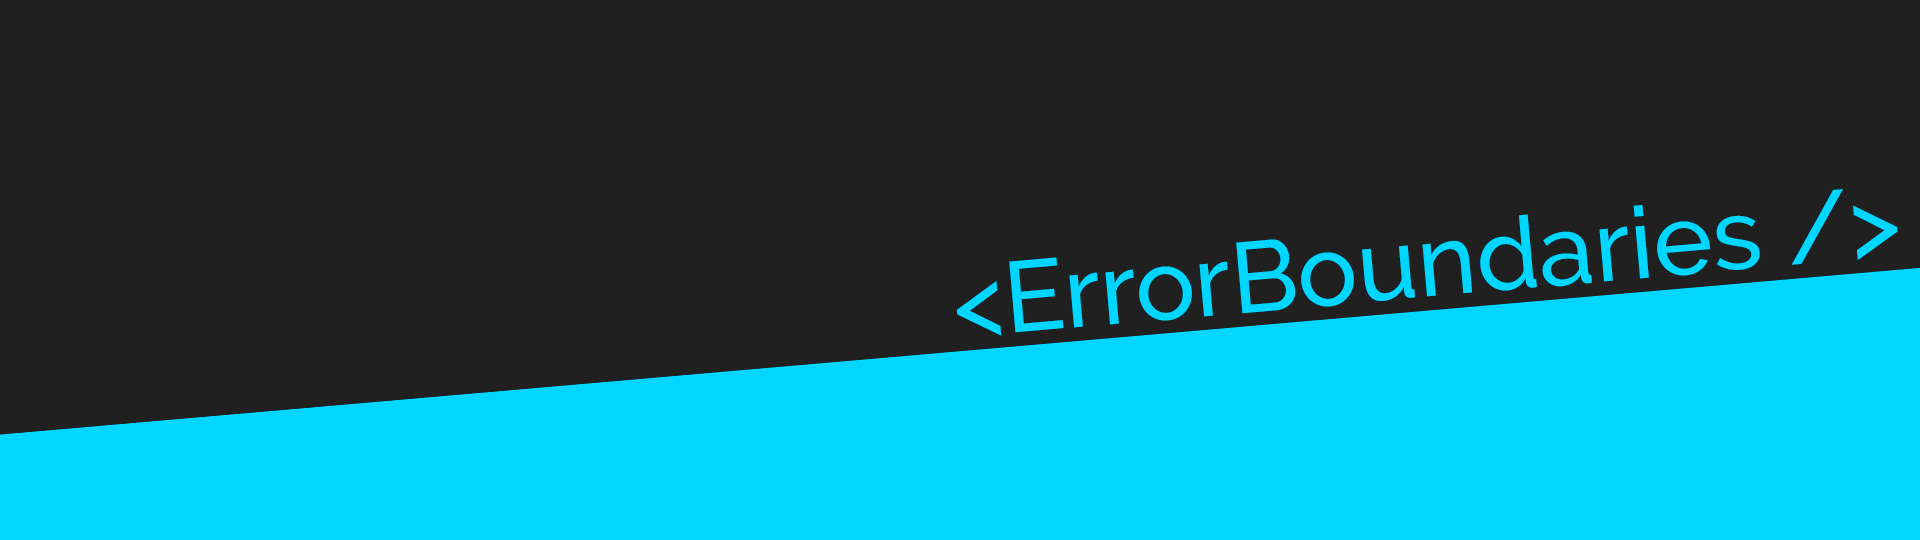
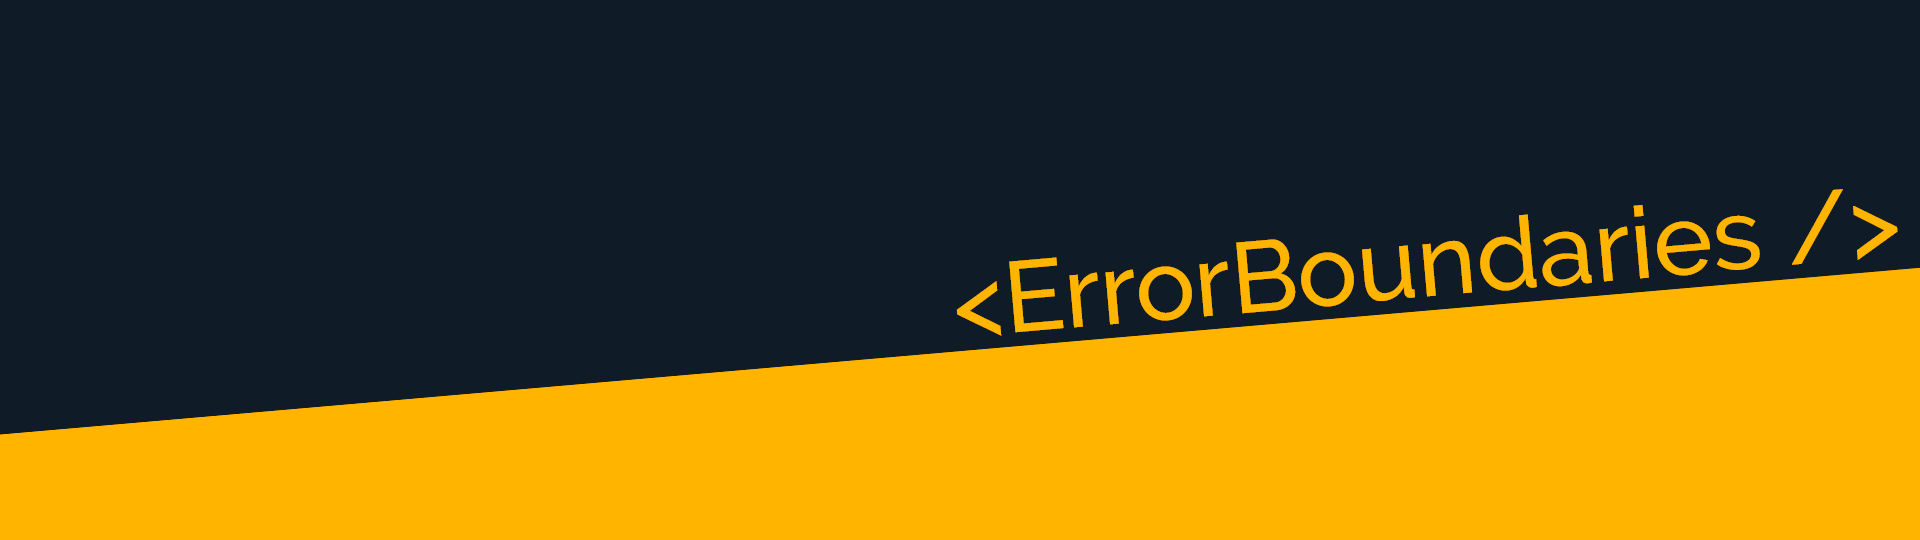
replacing images for new colored ones

diff --git a/gatsby-config.js b/gatsby-config.js
@@ -36,7 +36,7 @@ module.exports = {
                 priority: 2,
                 name: 'Why I prefer objects over switch statements',
                 image:
-                    'https://enmascript.com/images/2018-10-22-objects-over-switch.png',
+                    '/images/2018-10-22-objects-over-switch.png',
                 text:
                     'Explore a different and scalable way of treating multiple conditionals. No switch, no else if.',
                 url: 'https://enmascript.com/articles/2018/10/22/why-I-prefer-objects-over-switch-statements',
